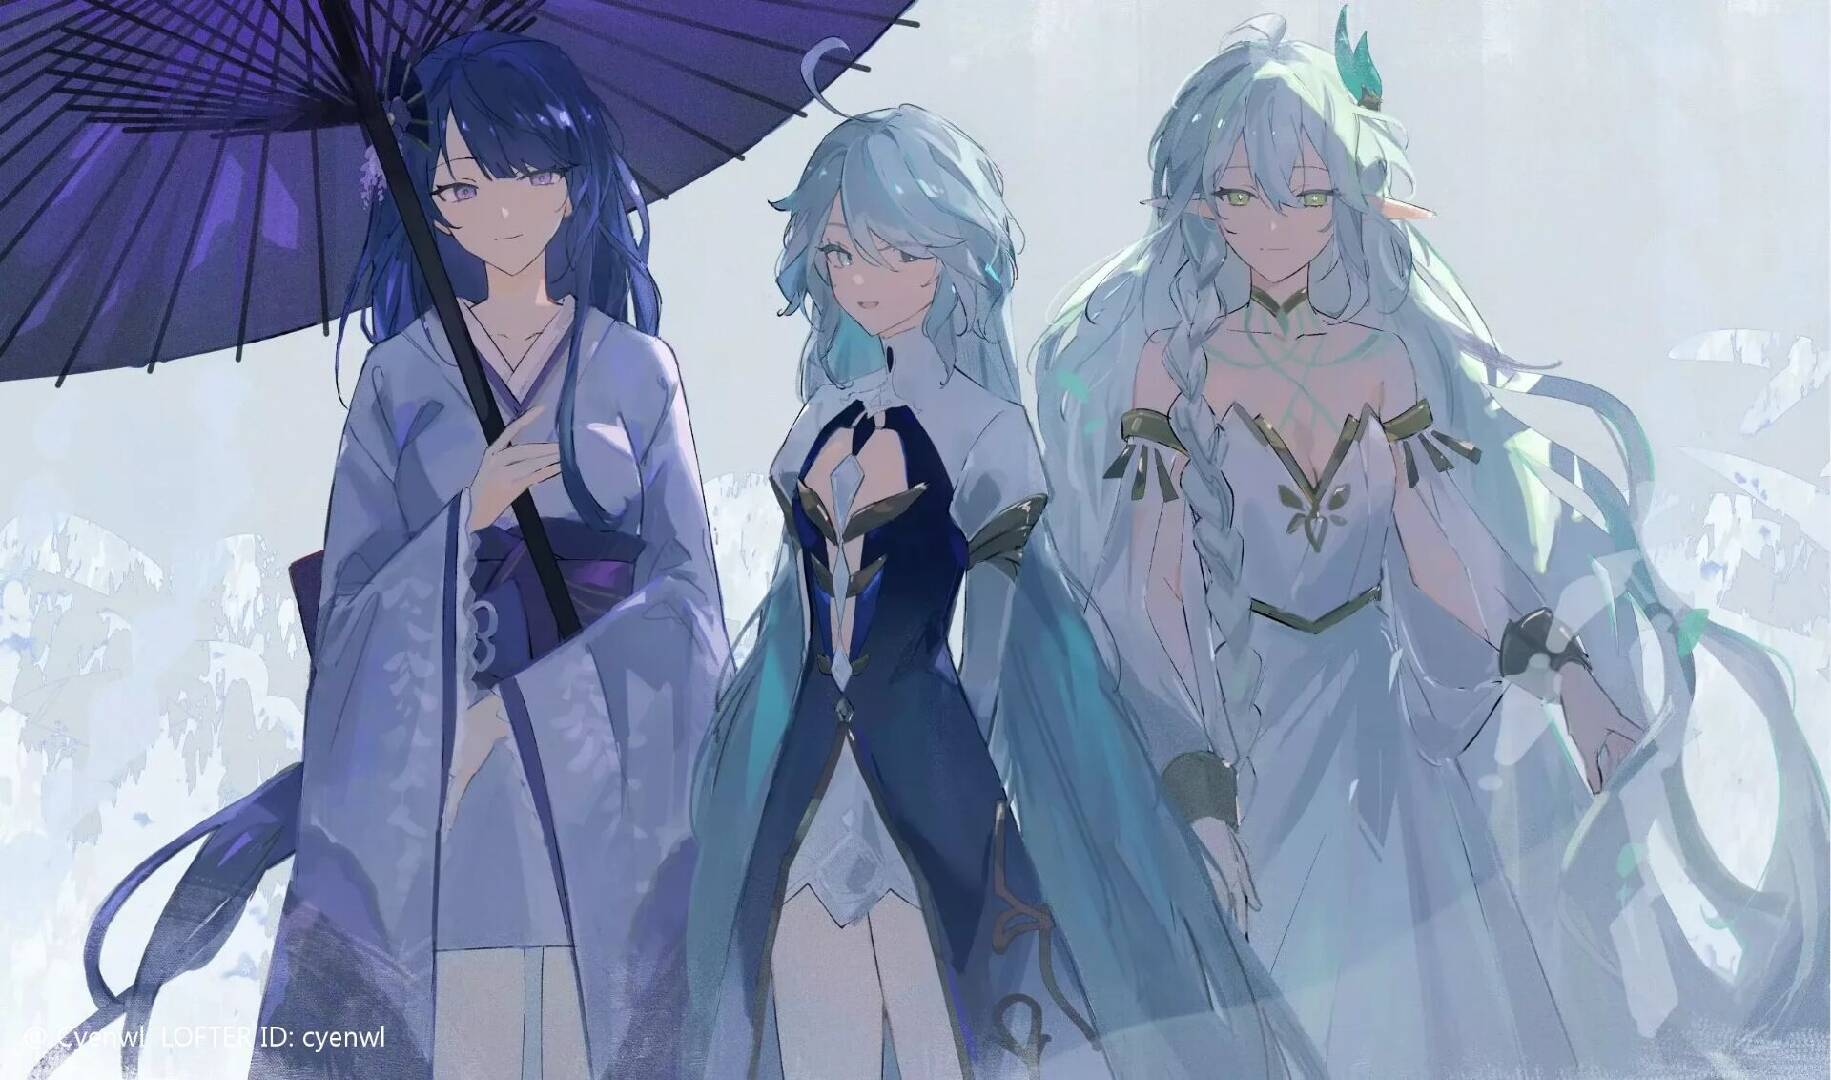
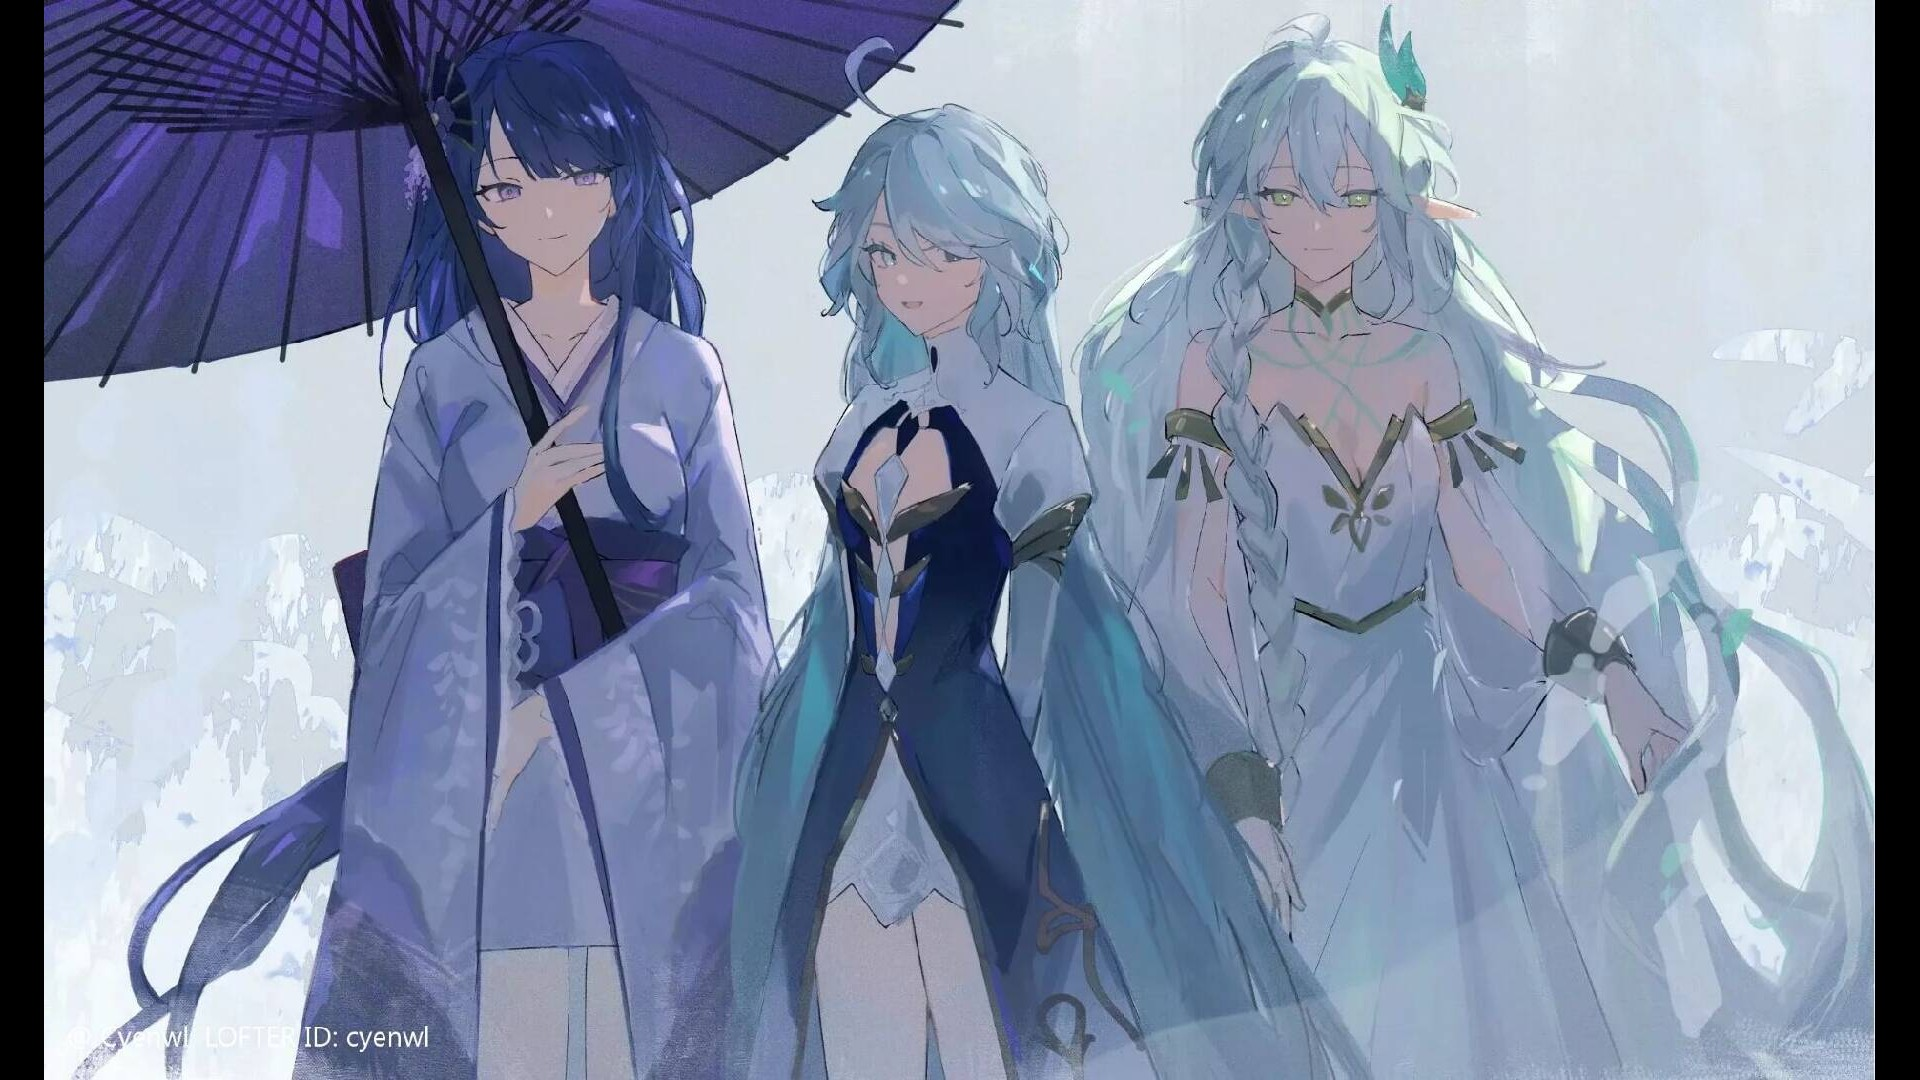
统一背景图尺寸为1920x1080，确保cover模式下完整显示

diff --git a/public/style.css b/public/style.css
@@ -36,7 +36,7 @@ body:has(.hero) {
 .hero-bg {
   position: absolute;
   inset: 0;
-  background: url('images/background1.jpg') center/contain no-repeat;
+  background: url('images/background1.jpg') center/cover no-repeat;
   background-color: #1a1a3e;
   z-index: 0;
 }
